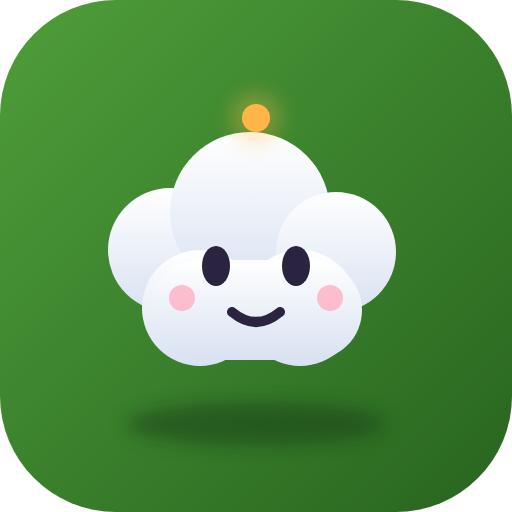
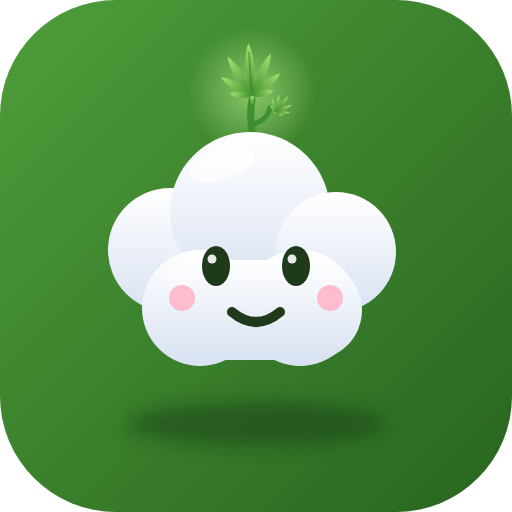
Give Dumancık a cannabis sprout (refined draft 1)
Kept the cloud mascot's look and added the approved leaf-sprout
concept, refined: a 7-fingered cannabis leaf with a midrib on a curved
stem plus a small side leaflet, soft glow behind the leaf, a shine
highlight on the head and sparkle dots in the eyes. Updated icon.svg
and the transparent mascot.svg (FAB + assistant panel), regenerated
512/192 PNGs. Version 4.1.0, build 58.

Claude-Session: https://claude.ai/code/session_01UZQfxuZHMPYc2riXmuvqwZ

diff --git a/app.js b/app.js
@@ -8,8 +8,8 @@
 
   // Semver: majör = büyük yeniden tasarım, minör = yeni özellik, patch = ince ayar.
   // Derleme numarası service worker önbellek sürümüyle (her dağıtımda artar) aynı.
-  var APP_VERSION = "4.0.1";
-  var APP_BUILD = 57;
+  var APP_VERSION = "4.1.0";
+  var APP_BUILD = 58;
 
   var CACHE_KEY = "dumanalti.entries.v1";   // çevrimdışı okuma önbelleği
   var OUTBOX_KEY = "dumanalti.outbox.v1";    // gönderilemeyen işlemler

diff --git a/service-worker.js b/service-worker.js
@@ -1,5 +1,5 @@
 /* Dumanaltı service worker — önce ağ (network-first), offline yedek */
-var CACHE = "dumanalti-v57";
+var CACHE = "dumanalti-v58";
 var ASSETS = [
   "./",
   "./index.html",
